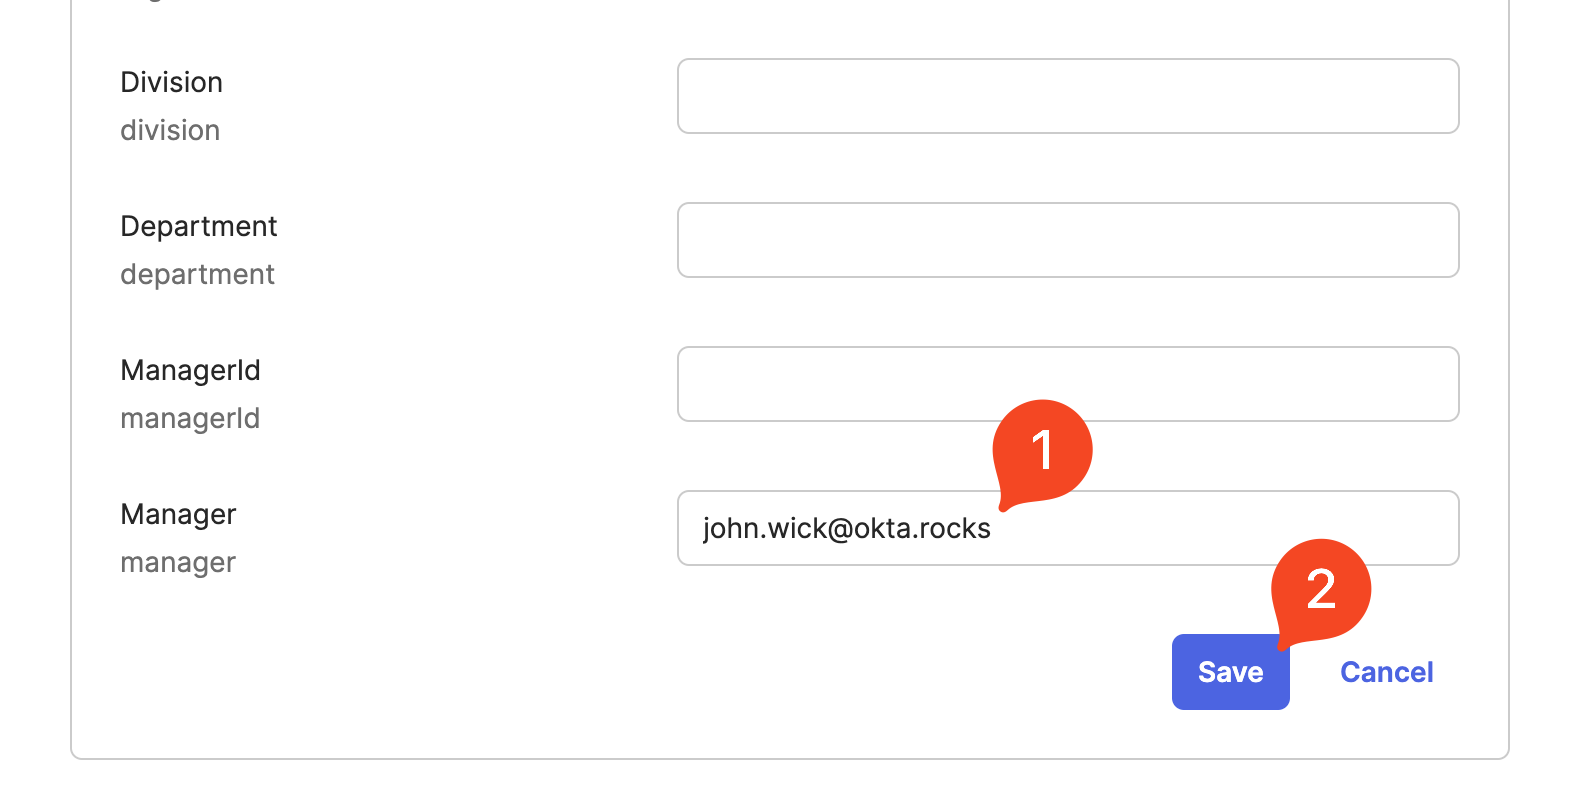
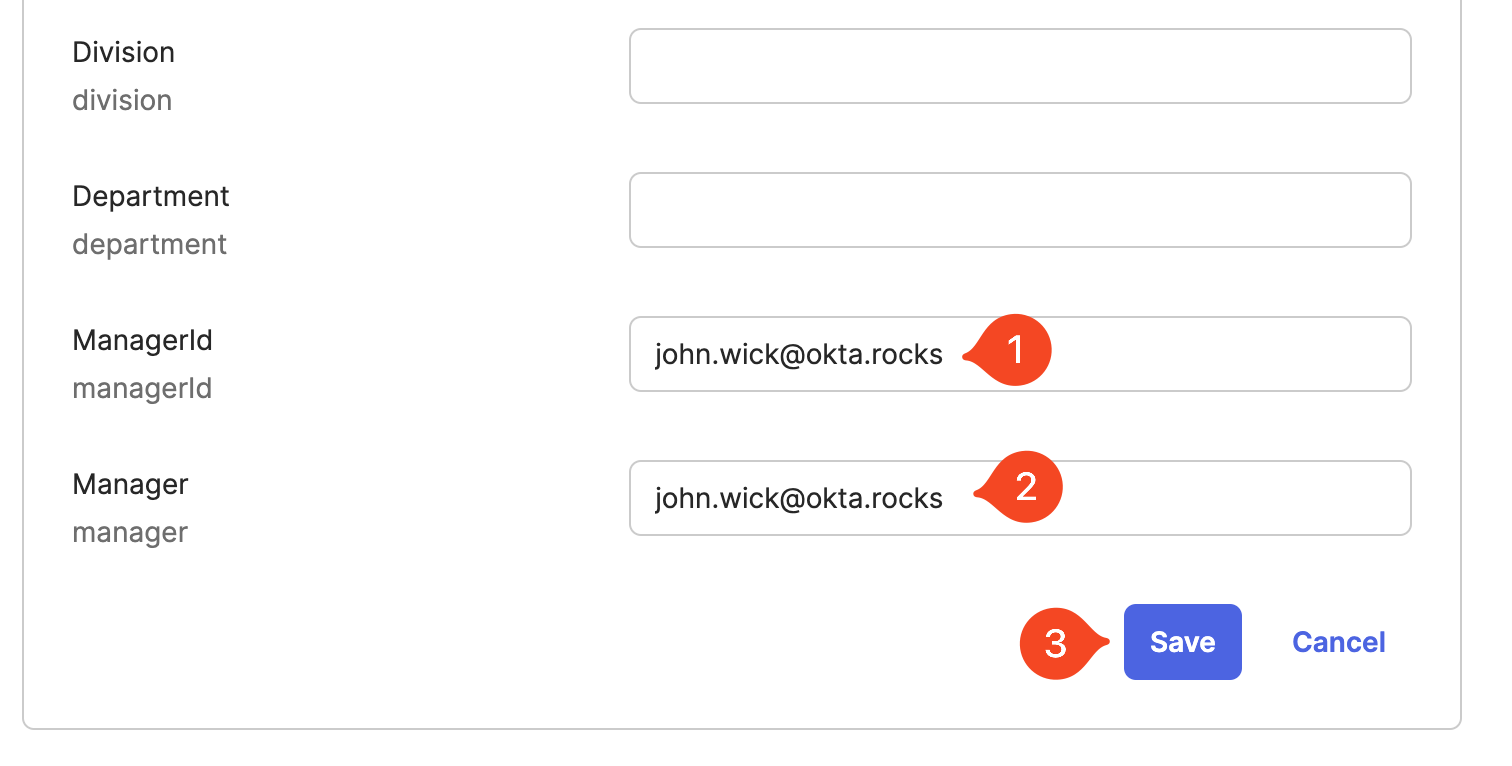
Finalized step 4 and some QoL changes

diff --git a/step4.md b/step4.md
@@ -241,20 +241,35 @@ Once finished, click on Publish at the top right to make the resource visible an
 
 
 
-## Testing if the access request flow works (IN PROGRESS - MUST BE UPDATED)
+## Testing if the access request flow works
 
 *For this section we strongly recommend you open two additional Chrome profiles. One which functions as the browser of the requester and another one which functions as the approver (manager). This way you don't have to constantly log in/out. This is especially challenging since we're working with 3 user accounts (requestor, approver and admin).*
 
-Navigate to the Okta login portal and log in with the following credentials.
+Navigate to the Okta login portal and log in with David Hume's credentials.
 
 ```
-username: bruce.wayne@okta.rocks
+username: david.hume@okta.rocks
 password: OktaRocks123!
 ```
 
-Click on the **Request Access** Application. Bruce should see two requestable resources to him. **Application 1** and the **Application-Admin permission set**. The first flow was created earlier during the lab and is automatically approved upon request. (*If Bruce already has access to a resource it might not be displayed on this screen*). We want to test the second flow so under **Application Owner Role** click on **Request Access**. Fill in the justification field, specify a date until when Bruce requires access, and submit your request. A new task is automatically created that can be followed by Bruce, the approver(s) and admins. We can for example see that manager approval is required. 
+Notice on the top right, that David does not have Admin privileges. If he were to have such privileges, we would see an Admin button on the top right of the end-user dashboard. We will now request access to the Application-admin role as David.
 
-![](https://raw.githubusercontent.com/Youssefmadani/OIG-Lab/main/Images/step4-13.png)
+**Click** on the **Okta Access Requests** Application. 
+
+![](https://raw.githubusercontent.com/Youssefmadani/OIG-Lab/main/Images/step4-12a.png)
+
+This should open up the *App Catalog*. David should see two requestable resources. The *Application Admin Role*, and the *Salesforce (auto-approved)* application. Under *Application Admin Role* **click** on **Request access**. 
+
+![](https://raw.githubusercontent.com/Youssefmadani/OIG-Lab/main/Images/step4-12b.png)
+
+ Fill in the justification field, specify a date until when David requires access, and submit your request. 
+
+![](https://raw.githubusercontent.com/Youssefmadani/OIG-Lab/main/Images/step4-12c.png)
+
+A new task is automatically created that can be followed by David, the approver(s) and the admins. We can for example see that manager approval is required. We made John Wick the manager of David Hume in the earlier section of the lab. And we see that reflected in the Request feed.
+
+![](https://raw.githubusercontent.com/Youssefmadani/OIG-Lab/main/Images/step4-12d.png)
+
 
 ### 3 ways of approving access
 
@@ -272,22 +287,88 @@ For the purposes of this lab we will be going with option number one. But to bri
 ![](https://raw.githubusercontent.com/Youssefmadani/OIG-Lab/main/Images/step4-15.png)
 `This is how an access request might be approved/denied through Slack/Teams.`
 
-Now if we log into the access requests dashboard as the manager, we should see that there is a new task pending. 
+### Approving Access as John Wick
+
+Now if we log into the access requests dashboard as the manager (John Wick), we should see that there is a new task pending. Open up a new Chrome-profile, an in-cognito tab or log out as David Hume. Now sign into your tenant with John Wick's Credentials:
+
+```
+username: john.wick@okta.rocks
+password: OktaRocks123!
+```
+Notice that John Wick is also not an admin. However, he can still approve/deny access requests as a manager through the Access Requests console (or through one of the methods discussed above, i.e. Slack/Team/e-mail).
 
 ![](https://raw.githubusercontent.com/Youssefmadani/OIG-Lab/main/Images/step4-16.png)
 
-Clicking on the request reveals details such as why the requester requires access to this resource. His justification isn’t very compelling but for demo-purposes I’ll choose to approve the request. 
+Go ahead and **click** on the *Okta Access Requests* application as John. John should now be presented with the same App Catalog that we saw earlier. But we don't want to request access. We want to see what requests we need to approve/deny as the manager. So go ahead and **click** on *Requests* on the top left. *(PS. Normally the manager would get an email notification or a notification through a chat application whenever he/she needs to review an access request).*
 
 ![](https://raw.githubusercontent.com/Youssefmadani/OIG-Lab/main/Images/step4-17.png)
 
-Once the request has been approved by the manager, return to the browser/chrome-profile of the requester and navigate to the Okta SSO dashboard. A new set of applications should have appeared on the requester's dashboard as a result of the access request process. If you had configured time-bound access, then access to these resources should automatically be revoked once the configured time has elapsed. 
+We see 1 open request that needs action from John Wick. Go ahead and **click** on the request.
+
+![](https://raw.githubusercontent.com/Youssefmadani/OIG-Lab/main/Images/step4-18.png)
+
+Take a moment to see the information that the manager has on this feed.
+
+1. We can see information of the requester.
+2. The Resource that is being requested access to.
+3. The business justification of the requester.
+4. The requested end-date (until when has David requested access to this resource)
+
+**Note**: *We don't restrict the requester when he/she is choosing an end-date. They can set the end-date to one year from now. The policy however specifies that they cannot get access to app-admin privileges for more than 10 days. So the Workflow that's being kicked off as a result of approval will make sure that access is granted for either 10 days or the end-user requested end-date. Whichever one is shorter.*
+
+Go ahead and **click** on *Approve*.
+
+![](https://raw.githubusercontent.com/Youssefmadani/OIG-Lab/main/Images/step4-19.png)
+
+Once we approve the access request as John Wick, we can see that the next action in the flow is performed:
+*Temporarily provision app-admin privileges (max 10 days).*
+
+**David Hume should now have been added to the Application-admins group as a result of the workflow that is triggered by the manager approval.**
+
+### Enjoying our new app-admin privileges as David Hume
+
+Sign back in as David Hume using the following credentials:
+```
+username: david.hume@okta.rocks
+password: OktaRocks123!
+```
+Notice that he now has access to the Admin dashboard as an Application admin. **Click** on *Admin* in the top right.
+
+![](https://raw.githubusercontent.com/Youssefmadani/OIG-Lab/main/Images/step4-20.png)
+
+David Hume can now perform Application Admin tasks with his new-found privileges. Notice also that he is limited with regards to what he can do as an admin. Many permissions and menu-items are invisible to him because his admin-privileges are tightly scoped to one of the default admin roles.
+
+![](https://raw.githubusercontent.com/Youssefmadani/OIG-Lab/main/Images/step4-21.png)
+
+
+### Curious about the Workflow that was triggered?
+
+If you would like to know how the Workflow is executed based on manager approval, Sign back in as a super-admin in Okta, go to the **Okta Admin Dashboard** and open up the **Workflow console**.
+
+![](https://raw.githubusercontent.com/Youssefmadani/OIG-Lab/main/Images/step4-22.png)
+
+From the **Workflows console** go to Flows and **click** on the Delegated flow we created earlier.
+
+![](https://raw.githubusercontent.com/Youssefmadani/OIG-Lab/main/Images/step4-23.png)
+
+Now **click** on *Execution History* and from the right-hand side-bar choose the first item.
+
+![](https://raw.githubusercontent.com/Youssefmadani/OIG-Lab/main/Images/step4-24.png)
+
+Notice that the delegated flow takes information from the access request submission (such as business justification, endDate etc.). This is then fed into the remainder of the flow. Being able to see this execution history in real time is also great for troubleshooting unexpected behaviors. Feel free to explore this page by scrolling to the right.
+
+Once the specified time (maximum 10 days) have passed, the last card in the flow will automatically remove David Hume from the Application-admins group. Causing him to lose all of his app-admin priviliges.
 
 ## Conclusion 
 
-We’ve seen how easy it is to set up various access request flows. We made one that automatically approves access and assigns the user the relevant resource(s). We also made another request flow where the user requested access to a oktagroupph giving him access to whatever access that oktagroupph should have. We also showcased how we can bake logic into the request flows by only running certain actions based on some conditions. And lastly we saw how easy it is to create time-bound access.
+We’ve seen how easy it is to set up various access request flows. We made one that automatically approves access and assigns the requester to Salesforce. We also made another request flow where the user requested access to an application-admin role. This access request flow required Manager approval. Upon approval a custom Workflow (automation) was triggered to ensure that the user is granted the right permissions for no more than a maximum of 10 days.
 
 This concludes the *request access* portion of the lab.
 
-For more information please head over to our [public documentation on OIG](https://help.okta.com/en-us/Content/Topics/identity-governance/iga.htm).
+### External Resources
 
+For more information on **Okta Identity Governance**, head over to our [public documentation](https://help.okta.com/en-us/Content/Topics/identity-governance/iga.htm).
 
+If you are curious on how **Custom Admin Roles** work in Okta. Check out [this page](https://help.okta.com/oie/en-us/content/topics/security/custom-admin-role/custom-admin-roles.htm).
+
+For more information on **Okta Workflows**, check out [this page](https://help.okta.com/wf/en-us/content/topics/workflows/workflows-main.htm).

diff --git a/step0.md b/step0.md
@@ -1,6 +1,6 @@
 # Getting started with Okta Identity Governance
 
- With the release of Okta Identity Governance we've introduced some new capabilities to the Okta platform. During this workshop we will attempt to familiarize you with how Okta does Governance. 
+ With the release of Okta Identity Governance we've introduced some new capabilities to the Okta platform. During this workshop we will attempt to familiarize you with how Okta does Governance. The Okta Identity Governance bundle consists of Access Requests, Access Certification, Reporting capabilities, Workflows automations, Identity Lifecycle Management and Cloud entitlement management capabilities.
  
  ![](https://raw.githubusercontent.com/Youssefmadani/OIG-Lab/main/Images/step0-1.png)
 

diff --git a/step1.md b/step1.md
@@ -21,6 +21,7 @@ From the **Okta Admin Dashboard**, navigate to **Directory --> People**.
  ![](https://raw.githubusercontent.com/Youssefmadani/OIG-Lab/main/Images/step1-2.png)
 
 If you only see yourself, (that means that the automation portion of this lab hasn't been finished yet. In that case, go ahead and) **click** on the **Add person** button and create the following users. Make sure that you **enable** **Activate now**, check **I will set Password**, and uncheck **User must change password on first login**  :
+
 - **First name, Last name, Username, primary email, pw = password**
 1. John, Wick, john.wick@okta.rocks, john.wick@okta.rocks, pw = OktaRocks123!
 2. David, Hume, david.hume@okta.rocks, david.hume@okta.rocks, pw = OktaRocks123!

diff --git a/step7.md b/step7.md
@@ -1,0 +1,6 @@
+# Summary 
+In this lab we have walked you through:
+1. How to create access request flows with dynamically defined approvers.
+2. How we can leverage Okta Workflows in combination with Okta Identity Governance to drive complex automations triggered by access request approvals. 
+3. How to create and manage certification campaigns.
+4. How to use Okta Identity Governance reporting.
